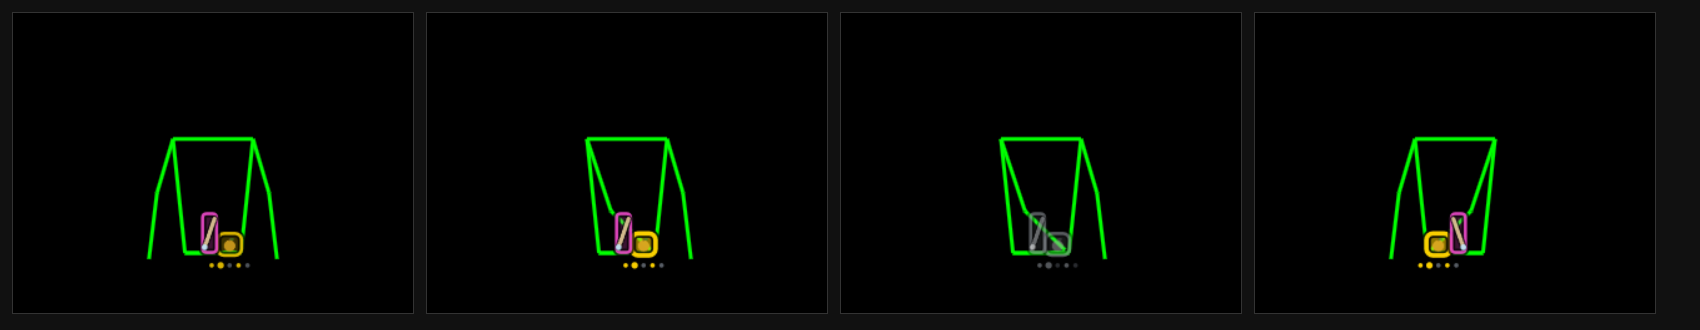
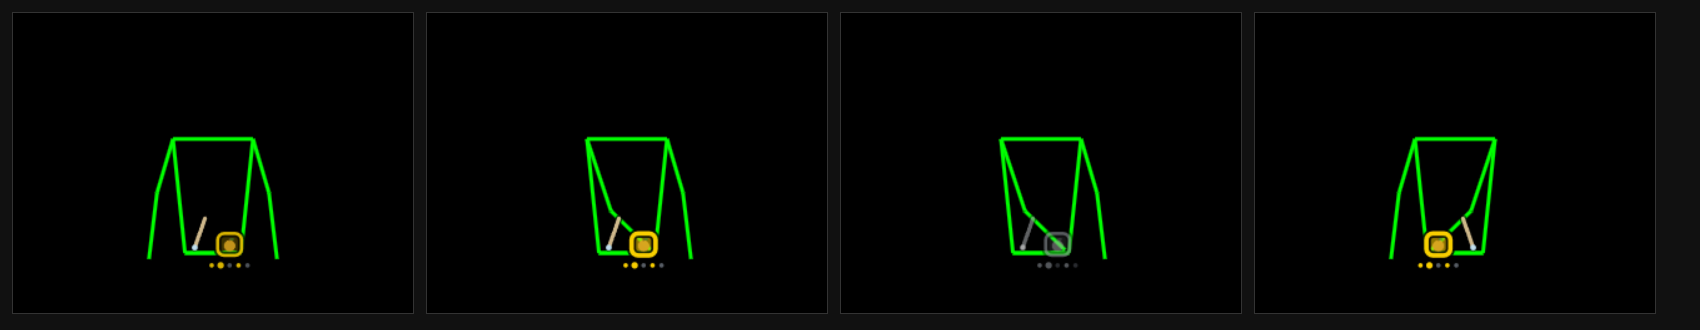
Окно камеры: палочка на поясе — без рамки-ячейки и левее (зона взятия тоже: BELT_AT u -0.02…0.25, середина на полпути к левому бедру); палочка в руке рисуется той же линией, что в игре — от настоящего запястья, по направлению и длине игровой палочки (масштаб по плечам)
Inventory._heldWandHint: черенок и кончик игровой палочки от кисти героя в его пространстве; PocketHintsDraw.drawHeldWands кладёт их от запястья игрока в окне (зеркально, как скелет). Тест: направление, длина и точка начала линии совпадают с игровой палочкой.

diff --git a/src/input/PocketHintsDraw.js b/src/input/PocketHintsDraw.js
@@ -1,8 +1,8 @@
 /**
  * PocketHintsDraw.js - draws the hints of PocketHints.js on the camera window's 2D canvas: for every place a bright
- * outlined mark (a dark edge under a coloured line, a see-through fill) - yellow: the things' pocket (the next thing's
- * picture in it and the row of cells; the coins are taken at the same place), pink: the wand at the belt (a little wand
- * in it). No words (the author: «подписывать не нужно, достаточно значка»). The author: «видно очень плохо, почти не
+ * outlined mark (a dark edge under a coloured line, a see-through fill) for the things' pocket (yellow: the next thing's
+ * picture in it and the row of cells; the coins are taken at the same place), and for the wand at the belt just the wand
+ * itself - no cell round it (the author: «палочка имеет как бы ячейку нарисованную как в интерфейсе, так не должно быть»). No words (the author: «подписывать не нужно, достаточно значка»). The author: «видно очень плохо, почти не
  * видно» - the old thin pale rings were lost over the skeleton, so the colours are ones the skeleton never uses (green
  * bones, red joints, cyan hands).
  * Sizes follow the torso in the picture, but never below a few SCREEN pixels: the window is drawn at 320×240 and shown
@@ -31,15 +31,16 @@ export function iconImage(url) {
 /** The marks' looks: line and fill (rgb for rgba()). Grey when shut (monster, still, dead, Imperius). */
 export const HINT_STYLE = {
     pocket: { line: '#ffd400', fill: ['rgba(255,212,0,0.28)', 'rgba(255,212,0,0.58)'] },
-    wand: { line: '#ff4fd8', fill: ['rgba(255,79,216,0.28)', 'rgba(255,79,216,0.58)'] },
 };
 const GREY = { line: '#b8bec8', fill: ['rgba(184,190,200,0.28)', 'rgba(184,190,200,0.4)'] };
 const EDGE = 'rgba(0,0,0,0.85)';
 
 /** The marks' sizes in torso heights (w, h) and their least size in screen pixels. */
-// (narrow enough that the wand's and the things' marks never touch: their middles are only ~0.18 torso apart)
-export const BOX = { pocket: [0.18, 0.17], wand: [0.09, 0.34] };
-const BOX_MIN = { pocket: [12, 11], wand: [7, 16] };
+export const BOX = { pocket: [0.18, 0.17] };
+const BOX_MIN = { pocket: [12, 11] };
+/** The wand's length (torso heights) and its least length in screen pixels. */
+export const WAND_LEN = 0.32;
+const WAND_MIN = 16;
 
 function roundRect(ctx, x, y, w, h, r) {
     r = Math.min(r, w / 2, h / 2);
@@ -69,12 +70,19 @@ function mark(ctx, X, Y, w, h, a, glow, st, lw, dashed) {
     if (dashed) ctx.setLineDash([]);
 }
 
-/** The small wand tucked at the belt: handle up, the tip down towards the thigh (away from the hand that takes it). */
-function wandShape(ctx, X, Y, len, a, grey, tipDir, s) {
+/** The small wand tucked at the belt: handle up, the tip down towards the thigh (away from the hand that takes it). `glow` - the hand coming to it: a soft light round it, no frame. */
+function wandShape(ctx, X, Y, len, a, grey, tipDir, s, glow = 0) {
     ctx.globalAlpha = a;
     const hx = X - tipDir * len * 0.14, hy = Y - len * 0.4; // (the handle)
     const tx = X + tipDir * len * 0.14, ty = Y + len * 0.4; // (the tip)
     ctx.lineCap = 'round';
+    if (glow > 0.05 && !grey) { // (the hand is coming: a pink light along it)
+        ctx.globalAlpha = a * Math.min(1, glow);
+        ctx.strokeStyle = 'rgba(255,79,216,0.75)';
+        ctx.lineWidth = Math.max(7 * s, len * 0.34);
+        ctx.beginPath(); ctx.moveTo(hx, hy); ctx.lineTo(tx, ty); ctx.stroke();
+        ctx.globalAlpha = a;
+    }
     ctx.strokeStyle = EDGE;
     ctx.lineWidth = Math.max(3.5 * s, len * 0.16);
     ctx.beginPath(); ctx.moveTo(hx, hy); ctx.lineTo(tx, ty); ctx.stroke();
@@ -84,6 +92,44 @@ function wandShape(ctx, X, Y, len, a, grey, tipDir, s) {
     ctx.fillStyle = grey ? '#ffffff' : '#bfe6ff'; // (a glint at the tip)
     ctx.beginPath(); ctx.arc(tx, ty, Math.max(1.5 * s, len * 0.06), 0, Math.PI * 2); ctx.fill();
     ctx.lineCap = 'butt';
+}
+
+/**
+ * A wand held in a hand, drawn in the window as the game holds it (the author: «прямо такой же линией как она в игре, а
+ * не просто рисунок»): `held` from Inventory._heldWandHint — the butt and the tip from the hero's hand (hero's space, x
+ * right, y up, metres) — laid from the player's real wrist in the picture, scaled by the player's shoulders against the
+ * hero's (the depth is not seen in the picture: as a camera would see it, foreshortened). The picture is a mirror: the
+ * hero's right is the window's right, as the player's own right hand is. Call after the skeleton, outside its mirror.
+ */
+export function drawHeldWands(ctx, W, H, lm, held, aspect = 4 / 3, s = 1) {
+    if (!held || !lm || lm.length < 17 || !(held.left?.on || held.right?.on)) return;
+    const ls = lm[11], rs = lm[12];
+    if (!ls || !rs || (ls.visibility ?? 1) < 0.5 || (rs.visibility ?? 1) < 0.5) return;
+    const S = Math.hypot((ls.x - rs.x) * aspect, ls.y - rs.y); // (the player's shoulders, picture heights)
+    if (!(S > 0.02)) return;
+    const k = S / (held.shoulder || 1); // (picture heights per metre of the hero)
+    s = Math.max(0.5, s || 1);
+    ctx.save();
+    ctx.lineCap = 'round';
+    for (const side of ['left', 'right']) {
+        const w = held[side];
+        if (!w?.on) continue;
+        const wr = lm[side === 'left' ? 15 : 16];
+        if (!wr || (wr.visibility ?? 1) < 0.3) continue;
+        const X0 = (1 - wr.x) * W, Y0 = wr.y * H, kx = (k * W) / aspect, ky = k * H;
+        const bx = X0 + w.bx * kx, by = Y0 - w.by * ky, tx = X0 + w.tx * kx, ty = Y0 - w.ty * ky;
+        const len = Math.hypot(tx - bx, ty - by);
+        ctx.globalAlpha = 1;
+        ctx.strokeStyle = EDGE;
+        ctx.lineWidth = Math.max(4 * s, len * 0.09);
+        ctx.beginPath(); ctx.moveTo(bx, by); ctx.lineTo(tx, ty); ctx.stroke();
+        ctx.strokeStyle = '#f3d9a4'; // (light wood: seen on the dark window, as the wand at the belt)
+        ctx.lineWidth = Math.max(2.2 * s, len * 0.045);
+        ctx.beginPath(); ctx.moveTo(bx, by); ctx.lineTo(tx, ty); ctx.stroke();
+        ctx.fillStyle = '#bfe6ff'; // (a glint at the tip: which end it points with)
+        ctx.beginPath(); ctx.arc(tx, ty, Math.max(2 * s, len * 0.04), 0, Math.PI * 2); ctx.fill();
+    }
+    ctx.restore();
 }
 
 /**
@@ -104,12 +150,12 @@ export function drawPocketHints(ctx, W, H, hints, d, s = 1) {
         const it = I[id];
         const a = it.a * fade;
         if (a < 0.02) continue;
+        const x = X(it), y = Y(it);
+        if (id === 'wand') { wandShape(ctx, x, y, Math.max(WAND_MIN * s, WAND_LEN * Tp), a, grey, d.leftHanded ? 1 : -1, s, it.glow); continue; }
         const st = grey ? GREY : HINT_STYLE[id];
         const w = Math.max(BOX_MIN[id][0] * s, BOX[id][0] * Tp), h = Math.max(BOX_MIN[id][1] * s, BOX[id][1] * Tp);
-        const x = X(it), y = Y(it);
-        const empty = id === 'pocket' && !d.pocketUrl;
+        const empty = !d.pocketUrl;
         mark(ctx, x, y, w, h, empty ? a * 0.85 : a, it.glow, st, lw, empty);
-        if (id === 'wand') { wandShape(ctx, x, y, h * 0.92, a, grey, d.leftHanded ? 1 : -1, s); continue; }
         const img = iconImage(d.pocketUrl);
         const px = Math.min(iconPx(H, hints.T || 0.3) || 0, Math.min(w, h) * 0.86);
         if (img && px > 0) {

diff --git a/tests/unit/pocket-hints.test.js b/tests/unit/pocket-hints.test.js
@@ -166,3 +166,37 @@ test('the drawn mark is where the game reads the zone — any camera shape, righ
         assert.ok(Math.abs(b.u - (BELT_AT.u[0] + BELT_AT.u[1]) / 2) < 1e-6, 'the wand mark is the zone\'s middle ' + tag);
     }
 });
+
+test('a wand in a hand is drawn as the game holds it: from the real wrist, its direction and length (mirror: the hero\'s right is the window\'s right)', async () => {
+    const THREE = await import('three');
+    const { Inventory } = await import('../../src/game/Inventory.js');
+    const { drawHeldWands } = await import('../../src/input/PocketHintsDraw.js');
+    // the game's side: a hero turned any way, the wand in the right hand pointing up and to the hero's right
+    const group = new THREE.Group(); group.position.set(5, 2, -3); group.rotation.y = 0.7;
+    const la = new THREE.Group(), ra = new THREE.Group(); la.position.set(-0.6, 1, 0); ra.position.set(0.6, 1, 0); group.add(la, ra);
+    const hand = new THREE.Vector3(0.6, 0, -0.5);
+    const model = new THREE.Group(); model.position.copy(hand); model.rotation.z = -Math.PI / 4; model.userData.tipY = 0.6; group.add(model);
+    group.updateMatrixWorld(true);
+    const game = { character: { group, leftArmAnchor: la, rightArmAnchor: ra, getHandWorldPosition: (s, out) => out.copy(hand).applyMatrix4(group.matrixWorld) }, items: { held: { right: { item: { kind: 'wand' }, model } } } };
+    const o = { shut: false };
+    Inventory.prototype._heldWandHint.call({ game }, o);
+    const w = o.held.right;
+    assert.ok(w.on && !o.held.left.on);
+    assert.ok(Math.abs(o.held.shoulder - 1.2) < 1e-6, 'the hero\'s shoulders');
+    assert.ok(Math.abs(w.bx) < 1e-6 && Math.abs(w.by) < 1e-6, 'the butt in the hand');
+    assert.ok(Math.abs(w.tx - 0.6 * Math.SQRT1_2) < 1e-6 && Math.abs(w.ty - 0.6 * Math.SQRT1_2) < 1e-6, 'the tip up and to the right, in the hero\'s own space');
+    // the window's side: the line from the player's right wrist, up and to the window's right, as long as the hero's wand in shoulders
+    const lm = pose(), lines = [];
+    const ctx = { save() {}, restore() {}, beginPath() {}, stroke() {}, fill() {}, arc() {}, moveTo(x, y) { this._m = [x, y]; }, lineTo(x, y) { lines.push([...this._m, x, y]); } };
+    drawHeldWands(ctx, 320, 240, lm, o.held, 4 / 3, 1);
+    assert.ok(lines.length >= 2);
+    const [x0, y0, x1, y1] = lines[0], wr = lm[16];
+    assert.ok(Math.abs(x0 - (1 - wr.x) * 320) < 1e-6 && Math.abs(y0 - wr.y * 240) < 1e-6, 'from the real right wrist (mirrored like the skeleton)');
+    assert.ok(x1 > x0 && y1 < y0, 'up and to the window\'s right');
+    const S = Math.hypot((lm[11].x - lm[12].x) * 4 / 3, lm[11].y - lm[12].y);
+    assert.ok(Math.abs(Math.hypot((x1 - x0) * (4 / 3) / 320, (y1 - y0) / 240) - 0.6 * S / 1.2) < 1e-6, 'its length: half the shoulders, as the hero\'s');
+    // no wand in a hand — nothing drawn
+    lines.length = 0;
+    drawHeldWands(ctx, 320, 240, lm, { left: { on: false }, right: { on: false }, shoulder: 1 }, 4 / 3, 1);
+    assert.equal(lines.length, 0);
+});

diff --git a/src/input/PoseInterpreter.js b/src/input/PoseInterpreter.js
@@ -82,7 +82,13 @@ export const BELT_UPPER = 0.38;
  * (negative: above), u — towards the person's left from the hips' middle; or null.
  */
 /** The wand's place at the waistband (beltPose `at`): the wrist below the hip line `dy`, towards the person's other side `u` (torso heights). The camera window draws its hint at the middle (PocketHints.js). */
-export const BELT_AT = { dy: [-0.45, 0.1], u: [-0.15, 0.21] };
+// (a little further to the person's left than it was (-0.15…0.21, the middle at 0.03 - nearly the belt's middle): the author,
+// looking at the camera window - «палочка должна быть немного левее, а то она сейчас ближе к центру пояса нарисована и берется»)
+// The middle (0.115) is half way from the belt's middle to the left hip joint (~0.25) - the things' pocket's mirror; the outer edge
+// stays short of the left trouser pocket (u ~0.28: a hand in it is not at the wand).
+export const BELT_AT = { dy: [-0.45, 0.1], u: [-0.02, 0.25] };
+/** The wider zone a hand at the wand stays in / takes it from (beltPose `near`), the same way to the left. */
+export const BELT_NEAR = { dy: [-0.6, 0.25], u: [-0.2, 0.7] };
 export function beltPose(lm, side, aspect = 4 / 3) {
     const [s, e, w] = side === 'left' ? [11, 13, 15] : [12, 14, 16];
     const sh = lm?.[s], el = lm?.[e], wr = lm?.[w], lh = lm?.[23], rh = lm?.[24];
@@ -101,7 +107,7 @@ export function beltPose(lm, side, aspect = 4 / 3) {
     // left, and the wand went to the belt)
     const upper = nu / T >= BELT_UPPER;
     const at = dy > BELT_AT.dy[0] && dy < BELT_AT.dy[1] && u > BELT_AT.u[0] && u < BELT_AT.u[1] && bend > 0.55 && upper; // (u ~0.25: the left hip, its trouser pocket)
-    const near = dy > -0.6 && dy < 0.25 && u > -0.3 && u < 0.6 && bend > 0.35 && upper;
+    const near = dy > BELT_NEAR.dy[0] && dy < BELT_NEAR.dy[1] && u > BELT_NEAR.u[0] && u < BELT_NEAR.u[1] && bend > 0.35 && upper;
     return { at, near, dy, u, bend };
 }
 
@@ -127,7 +133,7 @@ export function bodyPlace(lm, side, aspect = 4 / 3) {
     const wand = b.near;
     if (purse === wand) {
         if (!purse) return null;
-        const dW = Math.abs(b.u - 0.03), dP = Math.abs(b.u + hw + 0.1); // (the wand's handle a little left of the middle; the pouches just outside the hip)
+        const dW = Math.abs(b.u - (BELT_AT.u[0] + BELT_AT.u[1]) / 2), dP = Math.abs(b.u + hw + 0.1); // (the wand's handle a little left of the middle; the pouches just outside the hip)
         if (Math.abs(dW - dP) < 0.08) return null;
         return dW < dP ? 'wand' : 'purse';
     }

diff --git a/src/game/Inventory.js b/src/game/Inventory.js
@@ -684,7 +684,40 @@ export class Inventory {
         const it = nx >= 0 ? this.slots[nx] : null;
         o.pocketUrl = it ? g.itemIcons?.url(it) || null : null;
         o.wand = !!this.belt.beltWand() && !(g.items?.held.left?.item.kind === 'wand' || g.items?.held.right?.item.kind === 'wand');
+        this._heldWandHint(o);
         return o;
+    }
+
+    /**
+     * A wand in a hand, for the camera window (the author: «если игрок держит в кисти палочку она также будет рисоваться …
+     * прямо такой же линией как она в игре»): the game's own wand — its butt and tip from the hand, in the hero's space
+     * (x right, y up, metres), and the hero's shoulder width (the window scales it by the player's shoulders). Filled into
+     * `o.held.left / .right` (`on` false — no wand in that hand). No allocations.
+     */
+    _heldWandHint(o) {
+        const g = this.game, ch = g.character;
+        const H = o.held || (o.held = { left: { on: false, bx: 0, by: 0, tx: 0, ty: 0 }, right: { on: false, bx: 0, by: 0, tx: 0, ty: 0 }, shoulder: 1 });
+        H.left.on = H.right.on = false;
+        if (!ch?.group || !ch.getHandWorldPosition || o.shut) return;
+        let any = false;
+        for (const side of ['left', 'right']) {
+            const h = g.items?.held?.[side];
+            if (!h || h.item.kind !== 'wand' || !h.model) continue;
+            if (!any) {
+                any = true;
+                ch.group.updateMatrixWorld(true);
+                _inv.copy(ch.group.matrixWorld).invert();
+                const ls = ch.leftArmAnchor?.getWorldPosition(_v), rs = ls && ch.rightArmAnchor?.getWorldPosition(_v2);
+                H.shoulder = rs ? Math.max(0.1, ls.applyMatrix4(_inv).distanceTo(rs.applyMatrix4(_inv))) : 1;
+            }
+            const hand = ch.getHandWorldPosition(side, _v).applyMatrix4(_inv);
+            const m = h.model, w = H[side];
+            const b = _v2.set(0, 0, 0).applyMatrix4(m.matrixWorld).applyMatrix4(_inv);
+            w.bx = b.x - hand.x; w.by = b.y - hand.y;
+            const t = _v2.set(0, m.userData?.tipY || 0.65, 0).applyMatrix4(m.matrixWorld).applyMatrix4(_inv);
+            w.tx = t.x - hand.x; w.ty = t.y - hand.y;
+            w.on = true;
+        }
     }
 
     /** The pocket's soft ring: glows only while the off hand holds a thing and is near the pocket (nothing otherwise, no noise). */

diff --git a/src/input/PoseService.js b/src/input/PoseService.js
@@ -16,7 +16,7 @@ import { assignHands, HandStabilizer, PoseStabilizer } from './TrackingGuard.js'
 import { ArmGuard } from './ArmGuard.js';
 import { PoseInterpreter } from './PoseInterpreter.js';
 import { PocketHints } from './PocketHints.js';
-import { drawPocketHints } from './PocketHintsDraw.js';
+import { drawPocketHints, drawHeldWands } from './PocketHintsDraw.js';
 import { matchSticks } from './RealStick.js';
 import { detectStick } from './StickDetector.js';
 
@@ -920,6 +920,7 @@ export class PoseService {
             if (!(now - (this._hintSAt || 0) < 1000)) { this._hintSAt = now; const sh = ctx.canvas?.clientHeight; this._hintS = sh > 0 ? H / sh : 1; } // (read once a second: no layout per frame)
             const s = this._hintS || 1;
             if (h.step(dt, pl, info)) drawPocketHints(ctx, W, H, h, info, s);
+            drawHeldWands(ctx, W, H, pl, info.held, info.aspect, s); // (a wand in a hand: the game's own line, from the real wrist)
         } catch (e) {
             if (!this._hintErr) { this._hintErr = true; console.warn('[Подсказки карманов]', e); }
         }

diff --git a/CLAUDE.md b/CLAUDE.md
@@ -248,7 +248,7 @@
   снимки — `node tools/dungeon-screenshots.mjs --kind tomb [--cam u,v,h --look u,v,h --clip h]`; тесты `tests/unit/dungeons.test.js`, `tests/e2e/dungeons.test.mjs`. Новый строитель сразу прогонять `--check`.
 - **«Create a Bridge» — до любой твёрдой точки, до 200 м** (слова автора: «мост должен создаваться не только над рекой, а по любым условиям… ему вообще должно быть пофиг… главное, чтобы палочка упиралась в твёрдый объект; ввысь, через расщелины, до 200 метров»; `src/game/Bridge.js`): берегов и «провала» не ищется. Луч палочки (`rayTarget`, не дальше уже сделанной земли — `landMade`, иначе «подождите») бьёт в твёрдый блок; настил в 3 блока от слоя под ногами (и в воздухе) до этого блока, вверх/вниз не круче 1:1 (на ступенях пандусы), ложится только в пустые клетки (воздух, вода) — чужие постройки, дары богов и заколдованный камень не заменяются; на сплошной ровной земле настил приподнят на слой. Цена: 10 до 16 м, потом +0,5 за метр (200 м ≈ 102 маны). Растёт по кусочкам до ~10 с, у остальных игроков только свет, блоки приходят правками. Нет Максимы у этого заклинания. Тест `bridge.test.js`.
 - **Творческий: всегда 5 золотых яблок** (`Inventory.ensureCreativeApples`, `CREATIVE_APPLES`): считаются ячейки и руки; меньше пяти дольше 1,5 с (съели, бросили, умерли) — стопка пополняется или новая идёт в свободную ячейку; нет места — тихо ждёт. Только Творческий, у каждого игрока своё. Тест в `inventory.test.js`.
-- **Монеты достаются только при покупке или продаже** (слова автора; `src/game/CoinDeal.js`, `g.coinDeal`, тест `coin-deal.test.js`): мешочек с пояса (`CoinBelt._take`, карманный круг, клик по ячейке) выходит в руку, только пока рядом (≤ 9 м) торговец/продавец/скупщик — живой, не враг, не спит, не испуган, рынок открыт (ночью — пока держится сделка, `NightLife.dealHeld`) — или мой мешочек лежит на прилавке рядом; иначе подсказка «Монеты достаются только когда вы покупаете или продаёте» (не чаще раза в 6 с, только когда игрок реально пытается). Сделка кончилась — через 2 с мешочек из руки и мой мешочек с прилавка (в мультиплеере — только те, что были в моих руках) возвращаются на пояс. Творческий — как раньше; монеты в ячейке старого сохранения переливаются в пояс. **Мешочка нет в круге кармана** (слова автора 02.11: «монеточки в кармане уже не делаем»): прикосновение к карману берёт только вещи (`Inventory.takeNext`), мешочек — ячейкой мешочка или рукой у пояса и только в сделке; вне сделки жест у пояса молчит (без подсказки и звона). **Мешочек берут там же, где вещи** (слова автора 02.11: «монетки откуда их брать перенести туда же где и брать предметы»): одно место — правая половина пояса (`PoseInterpreter.OFF_POCKET`, у левши зеркально); кисть, ушедшая внутрь (пальцы вниз), — карман, кулак/хват на том же месте — мешочек (`offHip` → 'purse'). В окне камеры (`PocketHints`) у мешочка своего значка нет, метки (карман — жёлтая, палочка — розовая) без подписей («подписывать не нужно, достаточно значка»), метка стоит ровно в середине зоны, которую читает игра (пропорции камеры, не окна). Карман отвечает тихим шорохом (`SoundManager.playPocket` 'take'/'put'). Подбор монет из мира, смерть (мешочек падает у тела) — без изменений. **Сдача от торговца** (`CastleTalk.pay`, `CHANGE_S` 0,9 с, `_flushChange`): он берёт плату, правая рука выходит вперёд над прилавком ладонью вверх (поза `offer` в `VillagerModel`), и только потом мешочек со сдачей ложится на прилавок со звоном монет, а не появляется сразу; убит/испуган/уснул/ушёл — сдача ложится сразу, монеты не пропадают. Тест `merchant-change.test.js`. **Подсказки игроку:** у прилавка (≤ 6 м, ≥ 1,5 с, мешочек на поясе и в нём монеты) изредка «Хотите заплатить? Достаньте мешочек…» (`CoinDeal._coach`: не чаще раза в 150 с, не больше 3 раз, после двух доставаний мешочка в сделке молчит, в Творческом нет); ячейка мешочка в панели затемнена и в подсказке пишет, что монеты достаются только при торговле, пока сделки нет. Новая торговля — сразу решить, чем она «сделка» (`CoinDeal._refresh`).
+- **Монеты достаются только при покупке или продаже** (слова автора; `src/game/CoinDeal.js`, `g.coinDeal`, тест `coin-deal.test.js`): мешочек с пояса (`CoinBelt._take`, карманный круг, клик по ячейке) выходит в руку, только пока рядом (≤ 9 м) торговец/продавец/скупщик — живой, не враг, не спит, не испуган, рынок открыт (ночью — пока держится сделка, `NightLife.dealHeld`) — или мой мешочек лежит на прилавке рядом; иначе подсказка «Монеты достаются только когда вы покупаете или продаёте» (не чаще раза в 6 с, только когда игрок реально пытается). Сделка кончилась — через 2 с мешочек из руки и мой мешочек с прилавка (в мультиплеере — только те, что были в моих руках) возвращаются на пояс. Творческий — как раньше; монеты в ячейке старого сохранения переливаются в пояс. **Мешочка нет в круге кармана** (слова автора 02.11: «монеточки в кармане уже не делаем»): прикосновение к карману берёт только вещи (`Inventory.takeNext`), мешочек — ячейкой мешочка или рукой у пояса и только в сделке; вне сделки жест у пояса молчит (без подсказки и звона). **Мешочек берут там же, где вещи** (слова автора 02.11: «монетки откуда их брать перенести туда же где и брать предметы»): одно место — правая половина пояса (`PoseInterpreter.OFF_POCKET`, у левши зеркально); кисть, ушедшая внутрь (пальцы вниз), — карман, кулак/хват на том же месте — мешочек (`offHip` → 'purse'). В окне камеры (`PocketHints`) у мешочка своего значка нет, метки без подписей: карман — жёлтая рамка, палочка — одна нарисованная палочка без рамки-ячейки («так не должно быть»), на левой половине пояса (`BELT_AT` — середина на полпути от середины пояса к левому бедру; слова автора: «палочка должна быть немного левее»); палочка в руке рисуется в окне той же линией, что в игре (`Inventory._heldWandHint` → `drawHeldWands`: черенок и кончик от кисти героя в его пространстве, от настоящего запястья игрока, масштаб — по плечам) («подписывать не нужно, достаточно значка»), метка стоит ровно в середине зоны, которую читает игра (пропорции камеры, не окна). Карман отвечает тихим шорохом (`SoundManager.playPocket` 'take'/'put'). Подбор монет из мира, смерть (мешочек падает у тела) — без изменений. **Сдача от торговца** (`CastleTalk.pay`, `CHANGE_S` 0,9 с, `_flushChange`): он берёт плату, правая рука выходит вперёд над прилавком ладонью вверх (поза `offer` в `VillagerModel`), и только потом мешочек со сдачей ложится на прилавок со звоном монет, а не появляется сразу; убит/испуган/уснул/ушёл — сдача ложится сразу, монеты не пропадают. Тест `merchant-change.test.js`. **Подсказки игроку:** у прилавка (≤ 6 м, ≥ 1,5 с, мешочек на поясе и в нём монеты) изредка «Хотите заплатить? Достаньте мешочек…» (`CoinDeal._coach`: не чаще раза в 150 с, не больше 3 раз, после двух доставаний мешочка в сделке молчит, в Творческом нет); ячейка мешочка в панели затемнена и в подсказке пишет, что монеты достаются только при торговле, пока сделки нет. Новая торговля — сразу решить, чем она «сделка» (`CoinDeal._refresh`).
 - **Свитки здоровья и маны убраны** (слова автора: «не вижу смысла»): ни в таблицах выпадения, ни в лавках, ни в сундуках; в старых сохранениях и у сетевых игроков они превращаются в яблоко (`ItemTypes.retireScroll/retireScrollsIn`: загрузка мира и игрока, `Items.spawnLoose/takeIntoHand`, `Inventory.store`). Накопленное ранее здоровье/мана героя остаётся.
 
 ## Замок призраков (просьба автора, поколение мира 18)
